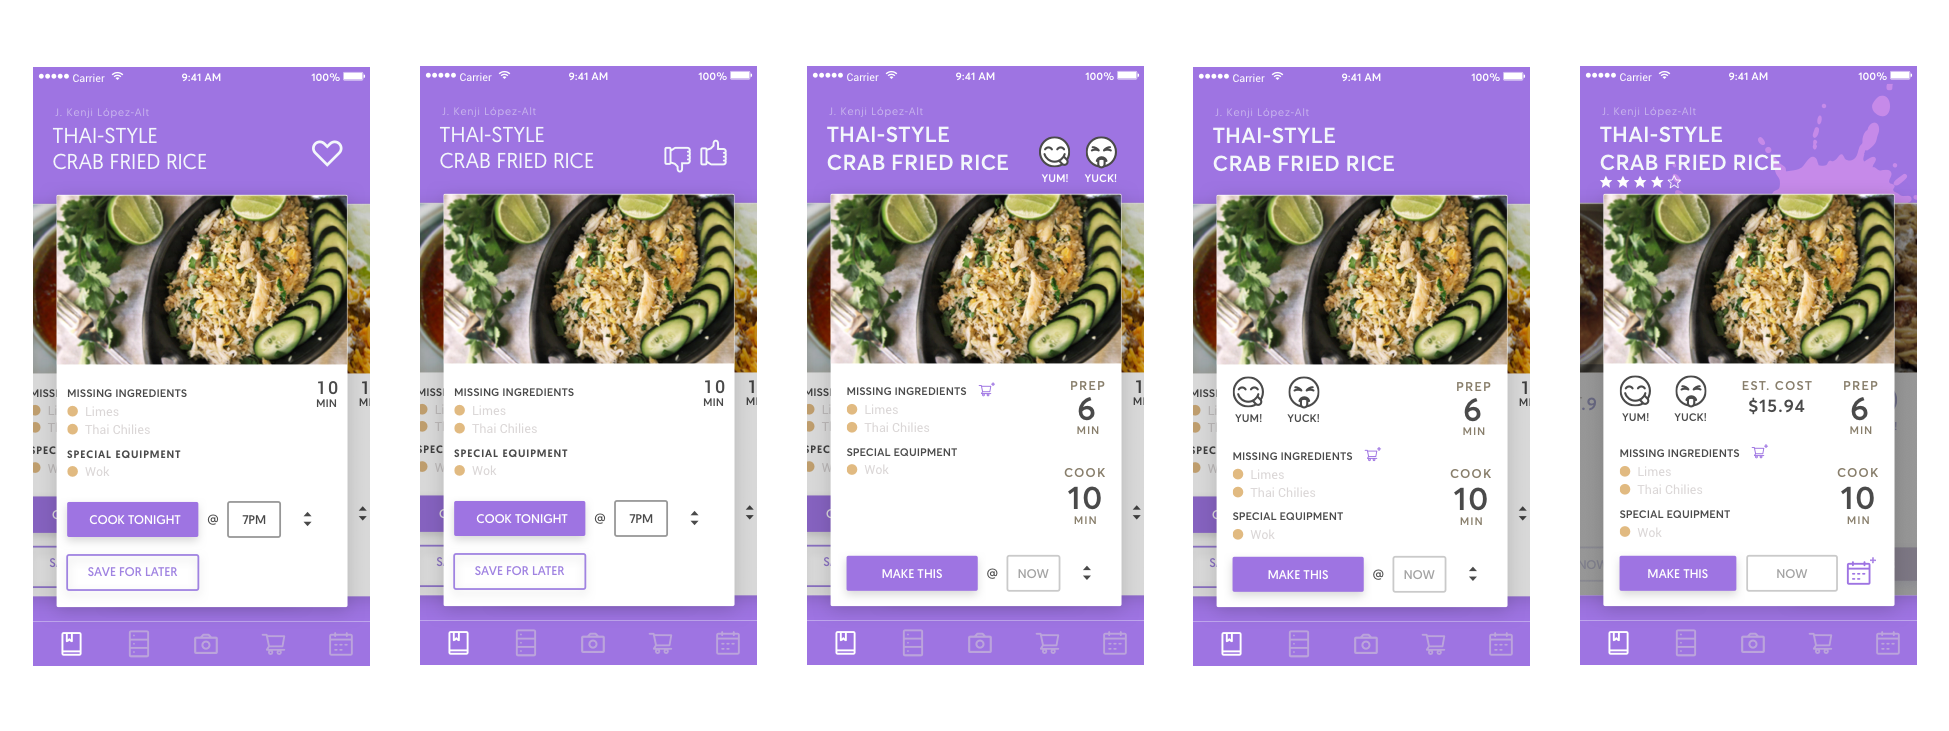
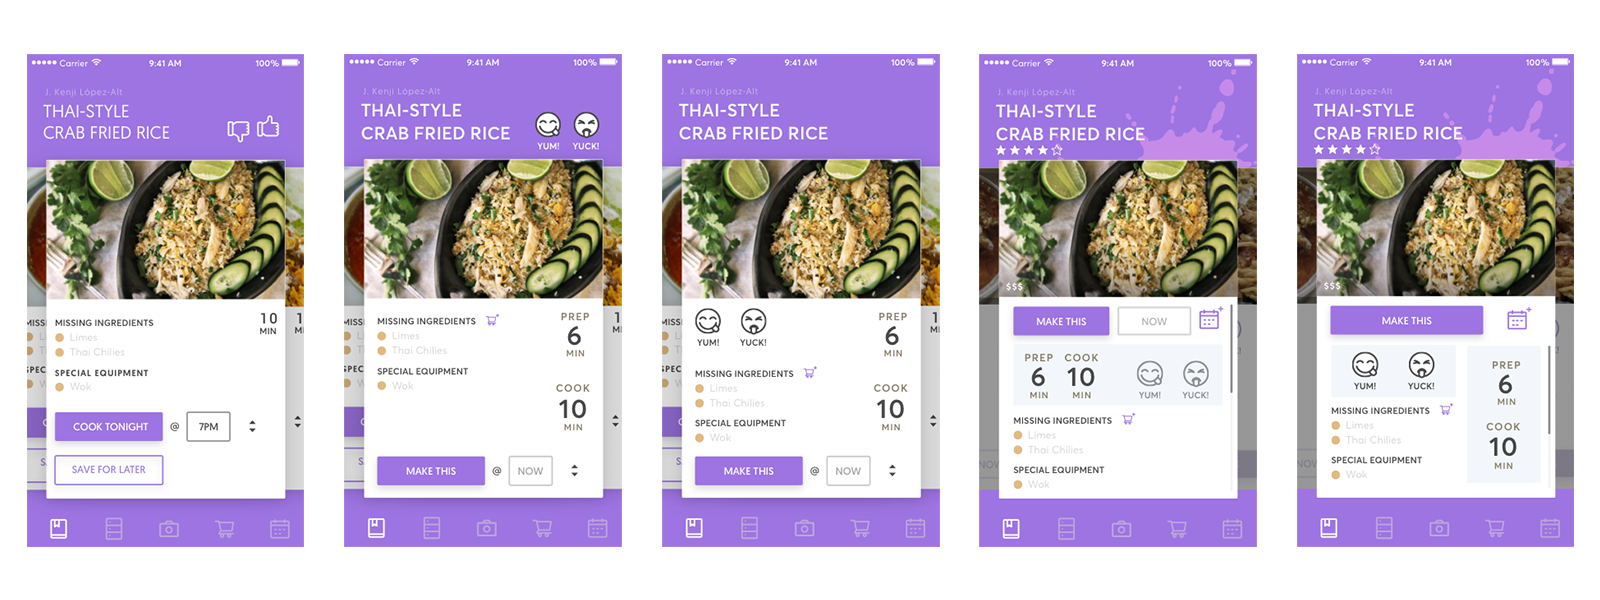
More refinements

diff --git a/public/souschef/index.html b/public/souschef/index.html
@@ -35,14 +35,14 @@
 <body xmlns="http://www.w3.org/1999/xhtml">
   <stuarttettdotcom-app id="app" detail="souschef"></stuarttettdotcom-app>
   <section id="contentDetails" class="z1" style="display: none; visibility: hidden; min-height: 100vh;">
-    <figure class="image contain fourSeventyTwo" style="background-image: url('/images/souschef-original-ui.png')">
+    <figure class="image contain fourSeventyTwo" style="background-image: url('/images/souschef-views.png')">
     </figure>
     <div id="caption1" class="one-col">
-      <p>In today's society, cooking week&#8211;night dinner's is a challenge. Often people don't think about it until their commute home after a long work day. They look in their fridge and are paralyzed. So they order delivery.</p>
-      <p>This gets expensive with delivery and service charges. Often times you overlook ingredients you could have used and they end up going bad when you don't use them.</p>
+      <p>Cooking weeknight dinners is a challenge for working professionals. Often people don't think about it until their commute home. They look in their fridge paralyzed. They often end up ordering delivery.</p>
+      <p>This gets expensive. Often times, they overlook ingredients on hand and don't use them before they spoil.</p>
     </div>
     <div class="two-col-extra dark-on-light grid-span">
-      <p><span class="emphasis bold-italic">How could we help busy people with their weeknight meals?</span></p>
+      <p><span class="emphasis bold-italic">How could technology help busy people with their weeknight meals?</span></p>
     </div>
     <div id="caption2" class="one-col">
       <p>The core problem is meal-plannin<span class="kern">g.</span></p>
@@ -54,8 +54,8 @@
     <figure class="image contain fourSeventyTwo" style="background-image: url('/images/souschef-planning-sketch.png')">
     </figure>
     <div class="one-col">
-      <p>An app keeping track of ingredients you have on hand can suggest more appropriate recipes.</p>
-      <p>Strategic notifications can help remind busy people so everything is ready to go.</p>
+      <p>If an app kept track of ingredients on hand, it could suggest more appropriate recipes.</p>
+      <p>This app could use strategic notifications to help remind busy people so everything is ready to go when they get home.</p>
     </div>
     <div class="one-col">
       <p>Most recipes in apps and books have you jumping around and missing steps when you're trying to cook something for the first time.</p>
@@ -72,6 +72,7 @@
     </figure>
     <div id="caption4" class="one-col">
       <p>I believe the carousel is a good balance between seeing multiple recipes at the same time and having detailed information about each recip<span class="kern">e.</span></p>
+      <p>Seeing more than a photo and a title helps users make a decision quickly.</p>
     </div>
     <figure class="image contain grid-span fourSeventyTwo" style="background-image: url('/images/souschef-recipe-iterations.png')">
     </figure>
@@ -79,7 +80,7 @@
       <p>Based on user feedback from mocks, I settled on "Yuck" and "Yum" icons for influencing recipe suggestions. I removed the "Save for Later" because users thought it was redundant and confusing.</p>
     </div>
     <div class="one-col">
-      <p>Rather than having ordering automatically scheduled, users felt more comfortable clicking a button to add to their shopping cart. Users can also choose to make the meal now or schedule it for another time or day.</p>
+      <p>Rather than having grocery orders automatically scheduled, users felt more comfortable clicking a button to add to their shopping cart. Users can also choose to make the meal now or schedule it for another time or day.</p>
     </div>
     <figure class="image contain fourSeventyTwo" style="background-image: url('/images/souschef-recipe-final.png')">
     </figure>
@@ -94,18 +95,12 @@
     <div class="one-col">
       <p>I talked to friends and family about their experiences with cooking recipes and recipe apps and created personas based on that research.</p>
     </div>
-    <!-- <div  class="one-col">
-      <p>Each persona has different motivations and goals for why they would use an app to find recipes.</p>
-    </div> -->
     <figure class="">
       <img src="/images/souschef-persona2.png" alt="Food Nerd Persona"/>
     </figure>
     <figure class="">
       <img src="/images/souschef-persona3.png" alt="Working Mom Personal"/>
     </figure>
-    <!-- <div  class="one-col">
-      <p>One reason that recipe apps become so complicated is everybody has such unique requirements and tastes when it comes to food. Most apps address this by having a screen dedicated to hundreds of options.</p>
-    </div> -->
     <div  class="one-col">
       <p>I envisioned how each persona would select a recipe. My goal was to narrow down the options and still deliver recipes for different individuals.</p>
     </div>
@@ -122,7 +117,7 @@
     <div  class="one-col">
       <p>If we focus on those factors, it greatly simplifies the interface.</p>
       <p>The recommendation engine to can refine suggestions by taste&#8212; Similar to Pandora's thumbs up or down.</p>
-      <p>Asking the user the reason they gave the recipe a thumbs down can improve the algorithm to exclude specific things.</p>
+      <p>Asking the user the reason they gave the recipe a thumbs down could improve the algorithm to exclude specific things like meat.</p>
     </div>
     <figure class="">
       <img src="/images/souschef-recommend.png" alt=""/>

diff --git a/public/arshoe/index.html b/public/arshoe/index.html
@@ -137,7 +137,7 @@
   </section>
   <footer id="footer" class="footer">
     <stt-scroll-btn class="btn-bc z3" style="transform: scaleY(-1)" onclick="TweenLite.to(window, 1, {scrollTo:0});"></stt-scroll-btn>
-  </div>
+  </footer>
   <script src="http://cdnjs.cloudflare.com/ajax/libs/ScrollMagic/2.0.5/ScrollMagic.min.js"></script>
   <script src="https://cdnjs.cloudflare.com/ajax/libs/gsap/1.20.4/TweenLite.min.js"></script>
   <script src="/scripts/animation.gsap.min.js"></script>

diff --git a/public/src/stuarttettdotcom-app/skew-card.html b/public/src/stuarttettdotcom-app/skew-card.html
@@ -260,7 +260,7 @@
 
     _resize(event) {
       if (!this.divFullCard) { return; }
-      
+
       let btn = this.divFullCard.querySelector('#scrollBtn');
       if (this.isMobile()) {
         btn.style.top = '';
@@ -269,7 +269,7 @@
         var height = this.animLabelDest.offsetHeight;
         height += 30;
         btn.style.top = height + "px";
-        this.divFullCard.style.height = '100vh';
+        this.divFullCard.style.height = '110vh';
       }
     }
 

diff --git a/public/src/stuarttettdotcom-app/stuarttettdotcom-app.html b/public/src/stuarttettdotcom-app/stuarttettdotcom-app.html
@@ -89,7 +89,7 @@ class StuarttettdotcomApp extends Polymer.Element {
             {type: 'skew-card',
             description: 'A mobile app that helps people waste less food by suggesting meals with ingredients they already have on hand.',
             title: 'SousChef',
-            image:'/images/souschef_mockup.png',
+            image:'/images/souschef-cover.jpg',
             link: 'souschef',
             tags: 'UX, UI, Graphic Design'},
 
